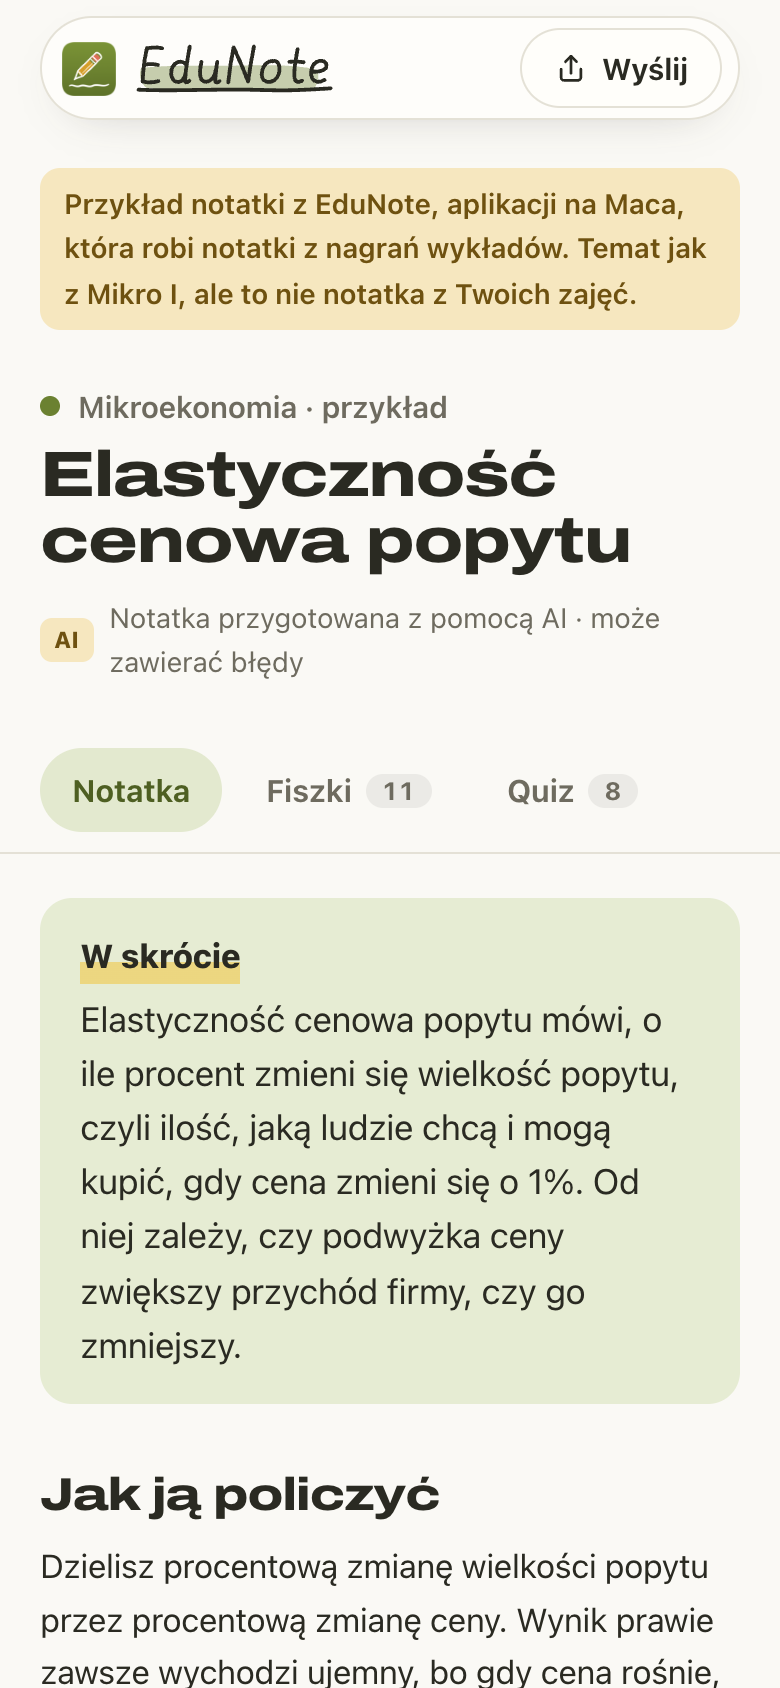
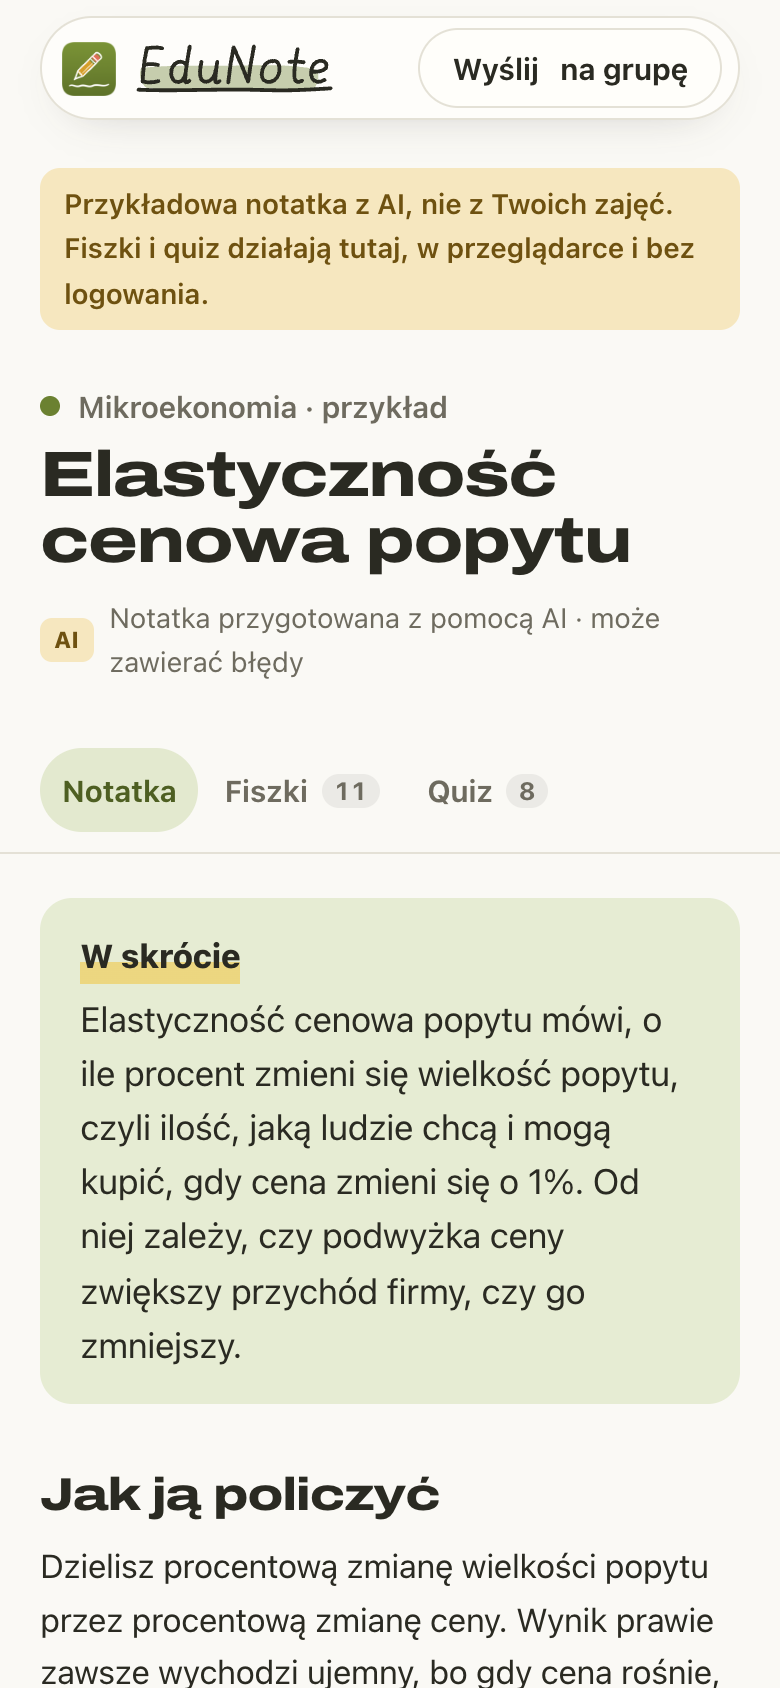
Strona EduNote: iPhone z Dynamic Island na zrzutach, aktualne zrzuty telefonu, jeden napis na przycisku Wyślij na grupę

diff --git a/index.html b/index.html
@@ -20,6 +20,12 @@
 <link rel="stylesheet" href="style.css">
 </head>
 <body class="home">
+<!-- ikonki paska stanu iPhone'a (zasięg, Wi-Fi, bateria) dla ramek telefonów -->
+<svg width="0" height="0" style="position:absolute" aria-hidden="true">
+  <symbol id="sb-signal" viewBox="0 0 18 12"><rect x="0" y="8" width="3" height="4" rx=".8"/><rect x="5" y="5.5" width="3" height="6.5" rx=".8"/><rect x="10" y="3" width="3" height="9" rx=".8"/><rect x="15" y="0" width="3" height="12" rx=".8"/></symbol>
+  <symbol id="sb-wifi" viewBox="0 0 16 12"><path d="M1.6 4.6a9.2 9.2 0 0 1 12.8 0M4.2 7.3a5.5 5.5 0 0 1 7.6 0" fill="none" stroke="currentColor" stroke-width="1.9" stroke-linecap="round"/><circle cx="8" cy="10.2" r="1.6"/></symbol>
+  <symbol id="sb-battery" viewBox="0 0 27 12"><rect x=".6" y=".6" width="22.8" height="10.8" rx="3.2" fill="none" stroke="currentColor" stroke-opacity=".4" stroke-width="1.2"/><rect x="2.4" y="2.4" width="17.6" height="7.2" rx="1.7"/><rect x="24.6" y="4" width="1.9" height="4" rx=".9" fill-opacity=".45"/></symbol>
+</svg>
 <header class="bar" id="bar">
   <div class="bar-in">
     <a class="brand" href="./"><img class="brand-icon" src="icon.png" width="34" height="34" alt=""><img class="wordmark" src="logo.svg" width="128" height="34" alt="EduNote"></a>
@@ -46,7 +52,7 @@
       <div class="tile tile-dots"></div>
       <div class="tile tile-mustard"></div>
       <img class="shot shot-mac" src="img/edunote-mac.jpg" width="1400" height="800" alt="EduNote na Macu: notatka z wykładu z makroekonomii ze streszczeniem i fiszkami">
-      <img class="phone-shot" src="img/telefon-notatka.png" width="390" height="844" alt="Notatka otwarta z linku na telefonie">
+      <div class="iphone hero-phone"><span class="iphone-btn action"></span><span class="iphone-btn vol-up"></span><span class="iphone-btn vol-down"></span><span class="iphone-btn power"></span><div class="iphone-screen"><div class="iphone-status" aria-hidden="true"><span>9:41</span><span class="iphone-icons"><svg viewBox="0 0 18 12"><use href="#sb-signal"/></svg><svg viewBox="0 0 16 12"><use href="#sb-wifi"/></svg><svg viewBox="0 0 27 12"><use href="#sb-battery"/></svg></span></div><img src="img/telefon-notatka.png" width="390" height="844" alt="Notatka otwarta z linku na telefonie"><span class="iphone-island" aria-hidden="true"></span></div></div>
     </div>
   </section>
 
@@ -87,9 +93,9 @@
       <h2>Jeden link i cały rok ma notatki</h2>
       <p class="band-lead">Wrzucasz link na grupę roku. Każdy otwiera notatkę, fiszki i quiz w przeglądarce: bez konta, bez instalowania i bez Maca.</p>
       <div class="phones">
-        <figure><img class="phone-shot" src="img/telefon-notatka.png" width="390" height="844" loading="lazy" alt="Notatka z linku na telefonie"><figcaption><b>Notatka</b> jak w aplikacji</figcaption></figure>
-        <figure><div class="phone-live"><div id="demo"></div></div><figcaption><b>Fiszki</b> · spróbuj tutaj</figcaption></figure>
-        <figure><img class="phone-shot" src="img/telefon-quiz.png" width="390" height="844" loading="lazy" alt="Quiz z wyjaśnieniami na telefonie"><figcaption><b>Quiz</b> z wyjaśnieniami</figcaption></figure>
+        <figure><div class="iphone"><span class="iphone-btn action"></span><span class="iphone-btn vol-up"></span><span class="iphone-btn vol-down"></span><span class="iphone-btn power"></span><div class="iphone-screen"><div class="iphone-status" aria-hidden="true"><span>9:41</span><span class="iphone-icons"><svg viewBox="0 0 18 12"><use href="#sb-signal"/></svg><svg viewBox="0 0 16 12"><use href="#sb-wifi"/></svg><svg viewBox="0 0 27 12"><use href="#sb-battery"/></svg></span></div><img src="img/telefon-notatka.png" width="390" height="844" loading="lazy" alt="Notatka z linku na telefonie"><span class="iphone-island" aria-hidden="true"></span></div></div><figcaption><b>Notatka</b> jak w aplikacji</figcaption></figure>
+        <figure><div class="iphone"><span class="iphone-btn action"></span><span class="iphone-btn vol-up"></span><span class="iphone-btn vol-down"></span><span class="iphone-btn power"></span><div class="iphone-screen"><div class="iphone-status" aria-hidden="true"><span>9:41</span><span class="iphone-icons"><svg viewBox="0 0 18 12"><use href="#sb-signal"/></svg><svg viewBox="0 0 16 12"><use href="#sb-wifi"/></svg><svg viewBox="0 0 27 12"><use href="#sb-battery"/></svg></span></div><div class="iphone-app"><div id="demo"></div></div><span class="iphone-island" aria-hidden="true"></span></div></div><figcaption><b>Fiszki</b> · spróbuj tutaj</figcaption></figure>
+        <figure><div class="iphone"><span class="iphone-btn action"></span><span class="iphone-btn vol-up"></span><span class="iphone-btn vol-down"></span><span class="iphone-btn power"></span><div class="iphone-screen"><div class="iphone-status" aria-hidden="true"><span>9:41</span><span class="iphone-icons"><svg viewBox="0 0 18 12"><use href="#sb-signal"/></svg><svg viewBox="0 0 16 12"><use href="#sb-wifi"/></svg><svg viewBox="0 0 27 12"><use href="#sb-battery"/></svg></span></div><img src="img/telefon-quiz.png" width="390" height="844" loading="lazy" alt="Quiz z wyjaśnieniami na telefonie"><span class="iphone-island" aria-hidden="true"></span></div></div><figcaption><b>Quiz</b> z wyjaśnieniami</figcaption></figure>
       </div>
       <a class="btn btn-light" href="n/#przyklad">Otwórz przykładową notatkę</a>
     </div>

diff --git a/style.css b/style.css
@@ -131,8 +131,6 @@ mark { color: inherit; background: linear-gradient(transparent 56%, var(--marker
 .hero-art .tile-mustard { right: 0; bottom: 4%; width: 46%; height: 52%; }
 .shot { display: block; border-radius: 12px; border: 1px solid rgba(42, 42, 34, .14); box-shadow: var(--shadow); background: var(--paper); }
 .hero-art .shot-mac { position: absolute; left: 0; top: 14%; width: 84%; height: auto; }
-.phone-shot { display: block; border-radius: 30px; border: 7px solid #151513; box-shadow: 0 26px 50px -24px rgba(0, 0, 0, .55); background: #151513; }
-.hero-art .phone-shot { position: absolute; right: 3%; bottom: 0; width: 30%; height: auto; }
 
 /* zalety: lista z cienkimi liniami na całą szerokość i zrzut obok */
 .feature { display: grid; gap: 36px; align-items: center; padding-top: 72px; padding-bottom: 72px; }
@@ -149,11 +147,8 @@ mark { color: inherit; background: linear-gradient(transparent 56%, var(--marker
 .band-lead { color: #CFCCBF; max-width: 34em; font-size: 18px; margin-bottom: 36px; }
 .phones { display: grid; grid-template-columns: repeat(3, minmax(0, 1fr)); gap: 28px; align-items: end; max-width: 980px; margin: 0 auto 36px; }
 .phones figure { margin: 0; text-align: center; }
-.phones .phone-shot { width: 100%; height: auto; border-color: #000; }
 .phones figcaption { margin-top: 12px; font-size: 15px; color: #CFCCBF; }
 .phones figcaption b { color: var(--paper); }
-.phone-live { aspect-ratio: 390 / 844; border-radius: 30px; border: 7px solid #000; background: var(--canvas); overflow: hidden; display: flex; flex-direction: column; padding: 18px 12px 14px; color: var(--ink); }
-.phone-live #demo { flex: 1; min-height: 0; display: flex; flex-direction: column; }
 @media (max-width: 760px) {
   .phones { grid-template-columns: none; grid-auto-flow: column; grid-auto-columns: 72%; overflow-x: auto; scroll-snap-type: x mandatory; padding: 0 var(--gutter) 6px; margin: 0 calc(-1 * var(--gutter)) 30px; }
   .phones figure { scroll-snap-align: center; }
@@ -506,3 +501,28 @@ ol.steps .c { color: var(--muted); font-size: 15px; }
 .waitlist-note a { color: var(--muted); }
 .cta .waitlist { margin-top: 22px; }
 details.faq .waitlist { margin: 0 0 18px; }
+/* iPhone z Dynamic Island (jak 15 Pro): ramka z tytanową krawędzią, przyciski boczne, pasek stanu, wyspa i pasek „home”.
+   Wymiary w cqw (procent szerokości ramki), więc telefon wygląda tak samo w każdej wielkości. */
+.iphone {
+  position: relative; container-type: inline-size; aspect-ratio: 716 / 1466; padding: 2.4%; border-radius: 16.8% / 8.2%;
+  background: linear-gradient(150deg, #3a3a3c 0%, #111113 22%, #0a0a0b 60%, #2a2a2c 100%);
+  box-shadow: 0 0 0 1px #6e6e73, 0 0 0 2.5px #c8c8cd, 0 0 0 3.5px #8e8e93, 0 30px 60px -28px rgba(0, 0, 0, .55);
+}
+.iphone-screen { position: relative; height: 100%; overflow: hidden; border-radius: 14.6% / 7%; background: var(--page); display: flex; flex-direction: column; }
+.iphone-screen > img { display: block; width: 100%; height: auto; flex: none; }
+.iphone-status { flex: none; height: 12.6cqw; display: flex; align-items: center; justify-content: space-between; padding: 1.4cqw 7.4cqw 0 9cqw; font: 600 4.1cqw/1 -apple-system, "SF Pro Text", system-ui, sans-serif; color: #000; letter-spacing: -.01em; }
+.iphone-icons { display: inline-flex; align-items: center; gap: 1.5cqw; }
+.iphone-icons svg { height: 2.9cqw; width: auto; fill: currentColor; color: #000; }
+.iphone-icons svg:last-child { height: 3.1cqw; }
+.iphone-island { position: absolute; top: 2.6cqw; left: 50%; transform: translateX(-50%); width: 29.5cqw; height: 8.6cqw; border-radius: 999px; background: #000; }
+.iphone-screen::after { content: ""; position: absolute; left: 50%; bottom: 2cqw; transform: translateX(-50%); width: 33cqw; height: 1.3cqw; border-radius: 999px; background: rgba(0, 0, 0, .78); }
+.iphone-btn { position: absolute; width: 1.1%; border-radius: 2px; background: linear-gradient(90deg, #8e8e93, #d1d1d6 50%, #8e8e93); }
+.iphone-btn.action { left: -1.1%; top: 17%; height: 4.2%; }
+.iphone-btn.vol-up { left: -1.1%; top: 24%; height: 7.4%; }
+.iphone-btn.vol-down { left: -1.1%; top: 33%; height: 7.4%; }
+.iphone-btn.power { right: -1.1%; top: 27%; height: 11.5%; }
+.hero-art .iphone { position: absolute; right: 3%; bottom: 0; width: 30%; }
+.phones .iphone { width: 100%; }
+.phones .iphone-screen { background: var(--canvas); }
+.iphone-app { flex: 1; min-height: 0; display: flex; flex-direction: column; padding: 2cqw 4cqw 8cqw; color: var(--ink); }
+.iphone-app #demo { flex: 1; min-height: 0; display: flex; flex-direction: column; }

diff --git a/n/index.html b/n/index.html
@@ -30,7 +30,7 @@
 <header class="bar">
   <div class="bar-in">
     <a class="brand" href="../"><img class="brand-icon" src="../icon.png" width="34" height="34" alt=""><img class="wordmark" src="../logo.svg" width="128" height="34" alt="EduNote"></a>
-    <button class="btn btn-ghost btn-sm hidden" id="share-top" type="button"><span>Wyślij</span><span class="wide">&nbsp;na grupę</span></button>
+    <button class="btn btn-ghost btn-sm hidden" id="share-top" type="button">Wyślij na grupę</button>
   </div>
 </header>
 
